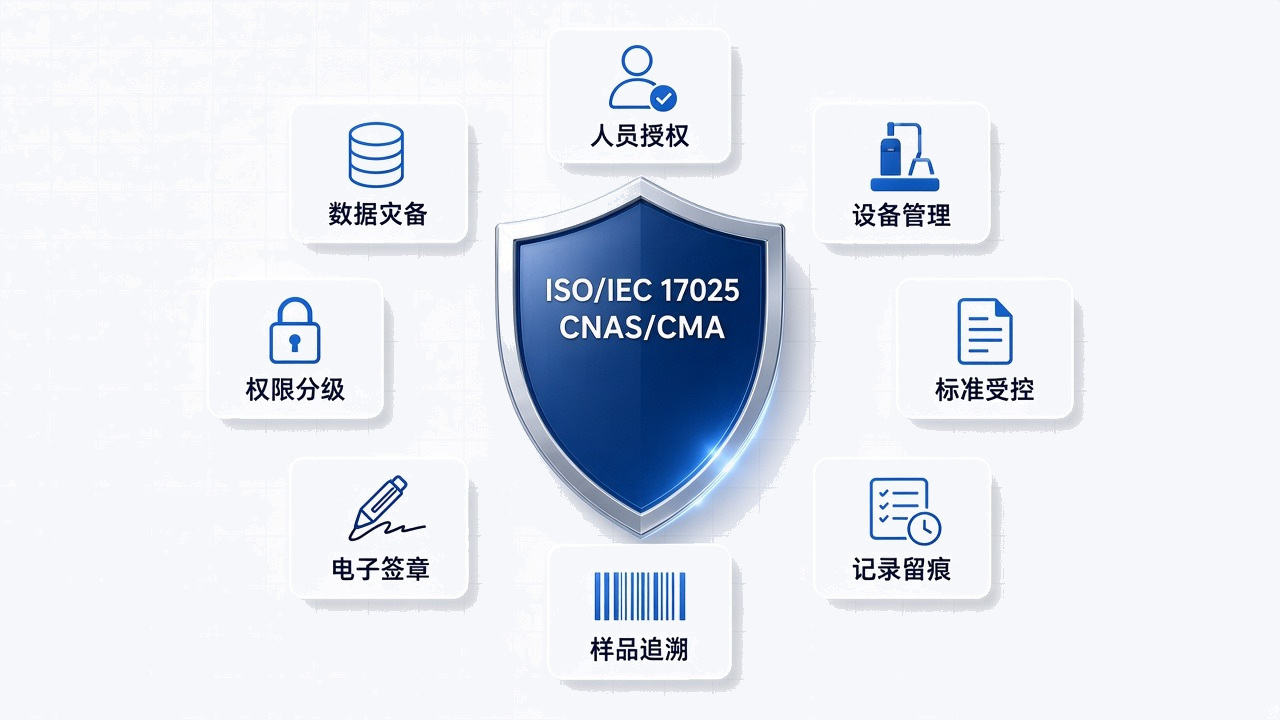
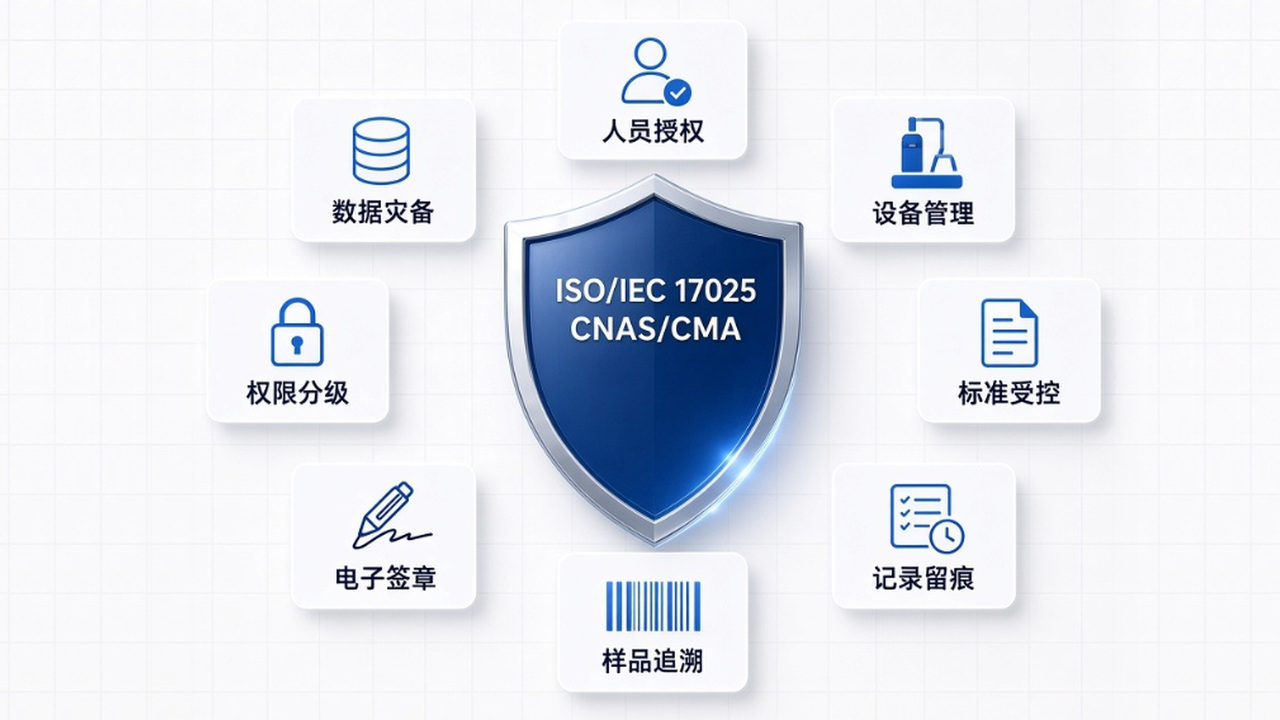
fix: 优势5配图改成附件的网格盾牌风格
用附件原图铺成 16:9，保留八张卡片、金属盾牌和浅灰网格，两侧用同一网格接出，不再把底纹洗平。

diff --git a/shucan-lims-brochure.html b/shucan-lims-brochure.html
@@ -419,7 +419,7 @@
             </ul>
           </div>
           <div class="visual">
-            <img class="illu" src="assets/brochure/18-cnas.jpg?v=bg" alt="盾牌写着 ISO/IEC 17025 与 CNAS/CMA，周围八张卡片：人员授权、设备管理、标准受控、记录留痕、样品追溯、电子签章、权限分级、数据灾备" />
+            <img class="illu" src="assets/brochure/18-cnas.jpg?v=style" alt="盾牌写着 ISO/IEC 17025 与 CNAS/CMA，周围八张卡片：人员授权、设备管理、标准受控、记录留痕、样品追溯、电子签章、权限分级、数据灾备" />
           </div>
         </article>
         <article class="adv" id="adv-wall">
